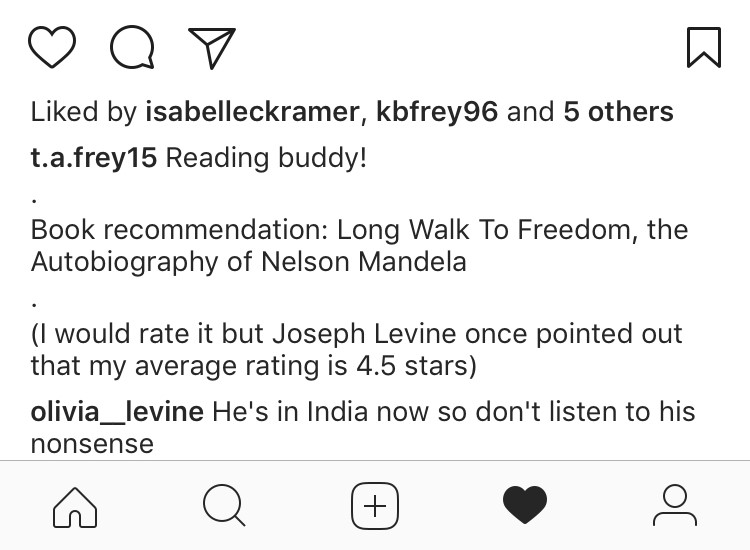
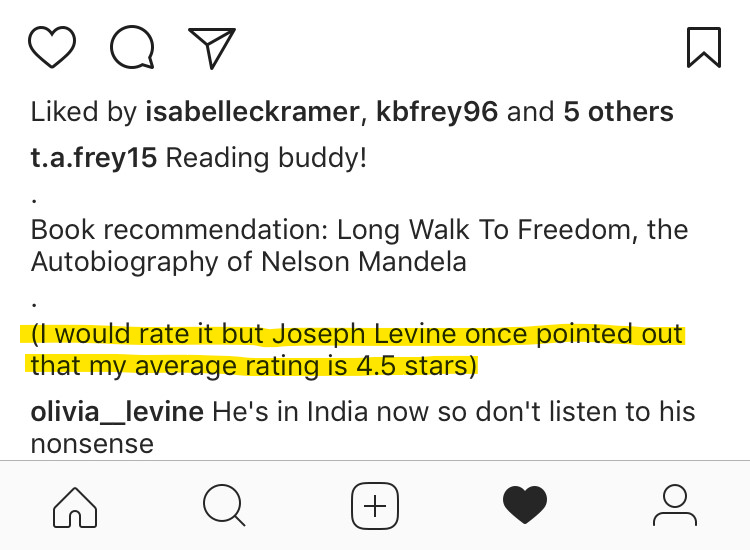
more

Changed region(s): [[0.0, 0.5873, 0.92, 0.7109]]

diff --git a/_older/september_2021.md b/_older/september_2021.md
@@ -23,15 +23,15 @@ This month, I spent hours reading memos from [this list](https://sriramk.com/mem
 
 In their memos, Zuckerberg, Jobs, and Gates shine as convincers. The acquisition of Instagram, one for the history books, wasn't decided by accountants or in board rooms (although both did their due diligence), it was decided because Mark Zuckerberg kept writing emails to Kevin Systrom. 
 
-Krishnan's list has just five government memos, of which two are from political campaigns and one is from Du Pont Chemical company. The political ones are fascinating: read Hillary Clinton's 2008 chief strategist on how to [take down Obama](https://sriramk.com/memos/penn-memo.pdf). He's "all sizzle and no steak," he "lacks American roots," he's "unelectable except perhaps against Attila the Hun."
+Krishnan's list has just five government memos, of which two are from political campaigns and one is from Du Pont Chemical company. The political ones are fascinating: read Hillary Clinton's 2008 chief strategist on how to [take down a junior senator from Illinois](https://sriramk.com/memos/penn-memo.pdf). Obama was "all sizzle and no steak," he "lacks American roots," and he's "unelectable except perhaps against Attila the Hun."
 
-But this isn't the pinnacle of government memo writing. Some government memos probably contain too much CYOA to be interesting. On the other hand, as Krishnan notes, memos "typically seem to come into the public domain in one of three ways: through being really old, being part of some lawsuit/legal process or, sadly, being part of a hack." The most interesting ones come from hacks, and these are the ones Krishnan is least likely to put on his website. 
+This isn't the pinnacle of government memo writing. Some government memos probably contain too much CYOA to be interesting. On the other hand, as Krishnan notes, memos "typically seem to come into the public domain in one of three ways: through being really old, being part of some lawsuit/legal process or, sadly, being part of a hack." The most interesting ones come from hacks, and these are the ones Krishnan is least likely to put on his website. 
 
-One of the most exciting war books I read this year was mostly a summary of memos and conversations about the Iraq war decision. "[Leap of Faith](https://smile.amazon.com/Leap-Faith-Negligence-Americas-Greatest/dp/1541768361?)" by Michael Mazarr collected memos from the White House, Pentagon, and NSC, which become characters in the story of Iraq. Donald Rumsfeld comes off the worst in his memo writing: one "urgent" (and unexplained) memo penned from his desk in 2002 reportedly read "Sunni vs Shia??" Rumsfeld was also deeply possessive of his briefings:
+One of the most exciting war books I read this year was mostly a summary of memos and conversations about the Iraq war decision. "[Leap of Faith](https://smile.amazon.com/Leap-Faith-Negligence-Americas-Greatest/dp/1541768361?)" by Michael Mazarr collected memos from the White House, Pentagon, and NSC, which become characters in the story of Iraq. Donald Rumsfeld comes off the worst in his memo writing: one "urgent" (and unexplained) memo penned from his desk in 2002 reportedly read, in its entirety, "Sunni vs. Shia??" Rumsfeld was also deeply possessive of his briefings:
 
-> If people began taking notes, he would sometimes tell them to stop. In one such session, according to someone present, Rice said she wanted to keep her copy of the slides. Rumsfeld refused and reached for them. The two were actually pulling the slides back and forth until Rice appealed to Bush, who was sitting at the head of the table: “Mr. President, I need to keep these.” Bush merely shrugged and left the room. Rice eventually surrendered her copy, but sent a staff member to the Pentagon to find another. 
+> If people began taking notes, he would sometimes tell them to stop. In one such session, according to someone present, [Condoleezza ] Rice said she wanted to keep her copy of the slides. Rumsfeld refused and reached for them. The two were actually pulling the slides back and forth until Rice appealed to Bush, who was sitting at the head of the table: “Mr. President, I need to keep these.” Bush merely shrugged and left the room. Rice eventually surrendered her copy, but sent a staff member to the Pentagon to find another. 
 
-We probably undervalue the memo. The most important one on Krishnan's list is from IBM's Thomas Watson, aimed at adjutants in the Pentagon during WWII. The focus is on "completed staff work."
+We probably undervalue the memo. The most important one on Krishnan's list is from IBM's Thomas Watson, aimed at adjutants working in the Pentagon during WWII. The focus is on "completed staff work."
 
 > "Completed Staff Work" is the study of a problem, and presentation of a solution, by a staff officer, in such form that all that remains to be done on the part of the head of the staff division, or the commander, is to indicate his approval or disapproval of the completed action. 
 
@@ -49,9 +49,7 @@ I have an increasingly hard time picking books to read. Last year, I had my favo
 
 However, I do have a philosophical problem with Goodreads' book-rating system. A five-star score can be useful, as a single dimensional measure of a books quality: one friend mentions that he only reads books with a 3.9 or higher average rating. One issue is that some of my favorite books are just *terrible*. My book choices don't always optimize for book quality. One of my favorite books to re-read is *1632*. If you're interested in how West Virginians could reinvent a modern industrial base using technology from Early Modern Germany, these stories are for you. By some sci-fi, an Appalachian mining town is transported to the middle of the Thirty Years' War, and the rednecks "bring the American Revolution to Europe: 150 years ahead of schedule!"{% sidenote "tag" "Actual tagline." %} The writing is overburdened with fictional and historical characters and technical minutiae. Take one plotline: the local hippie ("Stoner") becomes invaluable to the war effort against the Hapsburgs due to his background in "pharmaceuticals." There are [pages and pages](https://www.goodreads.com/book/show/57257.Grantville_Gazette_III) of details on the making of sulfa drugs and analgesics. Unsurprisingly, the median Goodreads reviewer leaves this book three stars.{% sidenote "gleech" "For the opposite view, see [Gleech's](https://www.gleech.org/books) <q>sort by controversy,</q> the books for which his rating most disagrees with the Goodreads average. All of them are, in his opinion, overrated, i.e., he rates them low and the average reader rates them highly. " %}
 
-There's an extensive literature on ratings systems.{% sidenote "legion" "And if there weren't, Amazon's [secret squad](https://edition.cnn.com/2019/03/13/tech/amazon-economists/index.html) of [economists](https://www.hbs.edu/ris/Publication%20Files/19-027_7e890058-c225-4803-a6f1-a6eb1db74027.pdf) would create one." %} Across Amazon product reviews, Uber ratings, and movie scores, anything below 4 is considered sub-par. But intuitively, a 3 should be average. I sometimes dream about systems where raters have to provide uniformly distributed results. Instead, ratings are right-skewed. This makes no sense to me, and has apparently irritated me for years: here's a [screenshot](https://jablevine.com/assets/img/skewed.png) from a friend's instagram in 2017, when I was apparently already complaining!
-
-
+There's an extensive literature on ratings systems.{% sidenote "legion" "And if there weren't, Amazon's [secret squad](https://edition.cnn.com/2019/03/13/tech/amazon-economists/index.html) of [economists](https://www.hbs.edu/ris/Publication%20Files/19-027_7e890058-c225-4803-a6f1-a6eb1db74027.pdf) would create one." %} Across Amazon product reviews, Uber ratings, and movie scores, anything below 4 is considered sub-par. But intuitively, a 3 should be average. I sometimes dream about systems where raters have to provide uniformly distributed results. Instead, ratings are right-skewed, making it difficult to distinguish the great from the excellent. This makes no sense to me, and has apparently irritated me for years: here's a [screenshot](https://jablevine.com/assets/img/skewed.png) from a friend's instagram in 2017, when I was already complaining!
 
 ## Listening <a name="music"></a>
 
